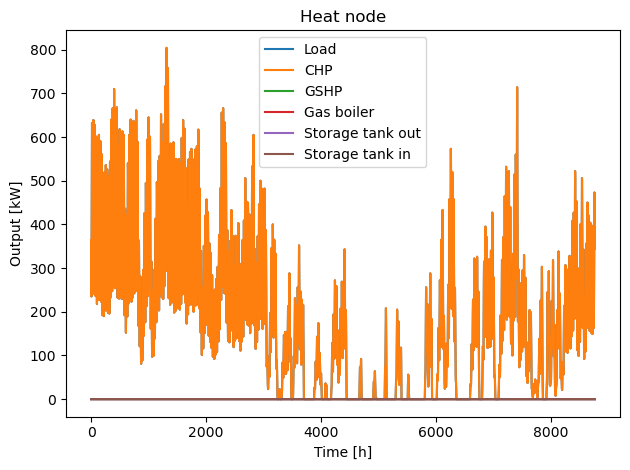
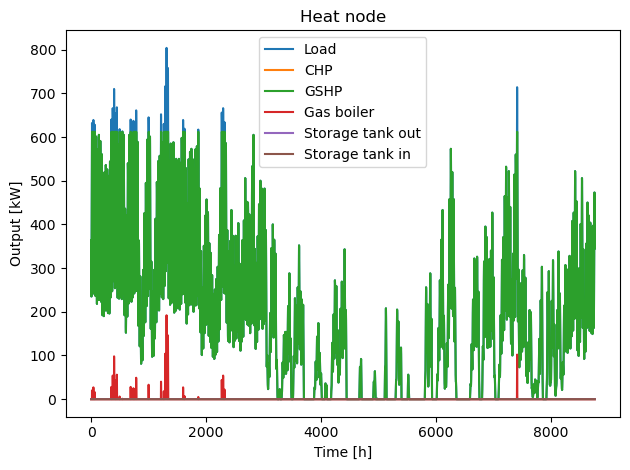
added plots

Changed region(s): [[0.1206, 0.0894, 0.9651, 0.8638], [0.3317, 0.8043, 0.3619, 0.8638]]

diff --git a/EnergyHub.py b/EnergyHub.py
@@ -35,6 +35,7 @@ def pie_plot_production(name):
     plt.pie(production_values, labels=energy_sources, autopct='%1.1f%%', startangle=140)
     plt.title('Energy Production by Source')
     plt.axis('equal')  # Equal aspect ratio ensures that pie is drawn as a circle.
+    plt.legend()
     plt.savefig(name,dpi=300)
     plt.show()
 
@@ -57,6 +58,7 @@ def pie_plot_capacity(name):
     plt.pie(filtered_values,labels=[f'{source}: {value}' for source, value in zip(filtered_sources, filtered_values)], startangle=140)
     plt.title('Capacity Installed by Source')
     plt.axis('equal')  # Equal aspect ratio ensures that pie is drawn as a circle.
+    plt.legend()
     plt.savefig(name, dpi=300)
     plt.show()
 
@@ -141,7 +143,7 @@ P_out_gb = cp.Variable(Horizon)  # Heat generation by natural gas boiler [kWh]
 
 # Gas boiler constraints
 # ----------------------
-gb_con = [Cap_gb == 0, P_out_gb == P_in_gb * eff_gb, P_in_gb >= 0, P_out_gb >= 0, P_out_gb <= Cap_gb]
+gb_con = [Cap_gb >= 0, P_out_gb == P_in_gb * eff_gb, P_in_gb >= 0, P_out_gb >= 0, P_out_gb <= Cap_gb]
 
 # Ground-source heat pump (gshp)
 # ===============================
@@ -163,7 +165,7 @@ P_out_gshp = cp.Variable(Horizon)  # Heat generation by ground-source heat pump 
 
 # GSHP constraints  --------- not considered
 # ----------------
-gshp_con = [Cap_gshp == 0, P_out_gshp == P_in_gshp * eff_gshp, P_in_gshp >= 0, P_out_gshp >= 0, P_out_gshp <= Cap_gshp]
+gshp_con = [Cap_gshp >= 0, P_out_gshp == P_in_gshp * eff_gshp, P_in_gshp >= 0, P_out_gshp >= 0, P_out_gshp <= Cap_gshp]
 
 # Combined heat and power engine (chp)
 # =====================================
@@ -310,7 +312,7 @@ E_bat = cp.Variable(Horizon + 1)  # Stored energy in battery [kWh]
 
 # Battery constraints
 # -------------------
-bat_con_1 = [Cap_bat >= 0, Cap_bat <= 300000, Q_in_bat >= 0, Q_out_bat >= 0, E_bat >= 0, E_bat <= Cap_bat,
+bat_con_1 = [Cap_bat >= 0, Cap_bat <= 250000, Q_in_bat >= 0, Q_out_bat >= 0, E_bat >= 0, E_bat <= Cap_bat,
              Q_in_bat <= max_ch_bat * Cap_bat, Q_out_bat <= max_dis_bat * Cap_bat]
 
 # Battery constraints
@@ -366,7 +368,7 @@ constraints = grid_con + gb_con + gshp_con + chp_con + pv_con + wind_con + ts_co
 print('Installed solvers:', cp.installed_solvers())
 #prob.solve(solver='SCIPY')
 
-"""
+
 #Multi Objective Optimization -> cost and co2
 eta = [i/10 for i in range(1,10,1)]
 sol_cost = []
@@ -386,6 +388,8 @@ sol_cost.append(cost.value)
 sol_co2.append(co2.value)
 pie_plot_production("pie_plot_production_min_emission.png")
 pie_plot_capacity("pie_plot_capacity_min_emission.png")
+
+
 
 for i in eta:
     print('Multi Objective Optimization with eta = ', i)
@@ -434,7 +438,7 @@ plt.savefig('emission_vs_cost.png', dpi=300)
 plt.show()
 
 
-"""
+
 
 #Multiobjective Optimization -> cost and jobs
 eta = [i/10 for i in range(1,10,1)]
@@ -468,9 +472,6 @@ for i in eta:
     prob.solve(solver='SCIPY')
     sol_cost.append(cost.value)
     sol_jobs.append(jobs.value)
-
-sol_jobs.pop()
-sol_cost.pop()
 
 print(sol_jobs)
 print(sol_cost)
@@ -663,4 +664,4 @@ plt.show()
 
 
 
-    
+

diff --git a/plots.py b/plots.py
@@ -1,0 +1,15 @@
+import matplotlib.pylab as plt
+
+energy_sources = ['Solar', 'HP']
+production_values = [985, 15]
+explode = (0, 0)
+colors = ['#1f77b4', '#ff7f0e']
+
+# Creating the pie plot
+plt.figure(figsize=(10, 10))
+plt.pie(production_values, autopct='%1.1f%%', explode=explode, startangle=40, pctdistance=0.9, colors=colors)
+plt.title('Energy production')
+plt.axis('equal')  # Equal aspect ratio ensures that pie is drawn as a circle.
+plt.legend(loc='upper left', labels=energy_sources)
+plt.savefig('plots/min_em_prod',dpi=300)
+plt.show()
